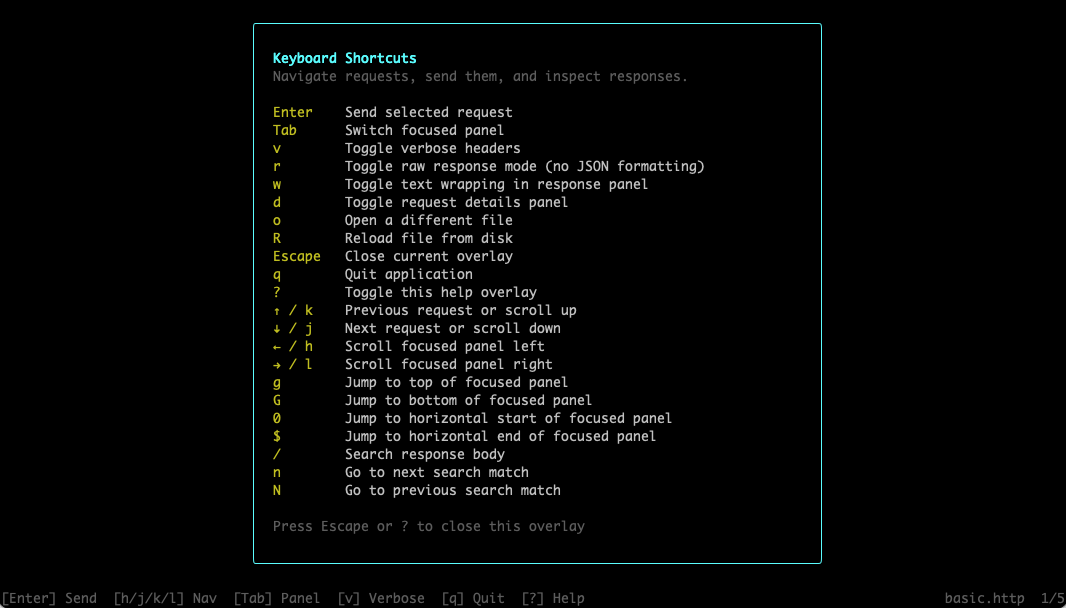
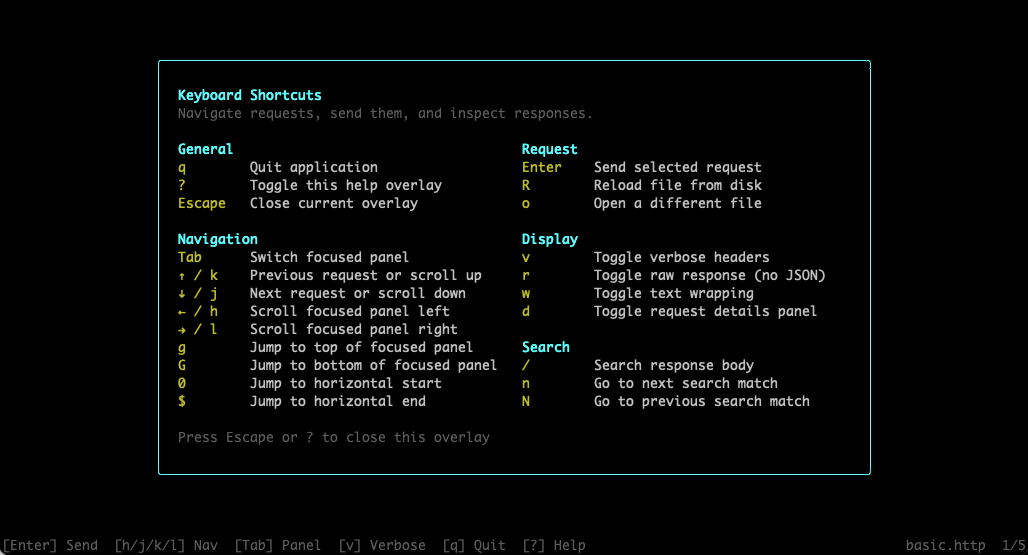
Complete change: help-panel-two-column-layout

diff --git a/src/components/HelpOverlay.tsx b/src/components/HelpOverlay.tsx
@@ -1,7 +1,7 @@
 import React from 'react';
 import { Box, Text, useStdout } from 'ink';
 
-import { SHORTCUTS, SHORTCUT_GROUP_ORDER, SHORTCUT_GROUP_LABELS } from '../core/shortcuts';
+import { SHORTCUTS, SHORTCUT_GROUP_LABELS, HELP_COLUMN_GROUPS } from '../core/shortcuts';
 import type { ShortcutGroup } from '../core/shortcuts';
 import { DEFAULT_TERMINAL_COLUMNS } from '../utils/layout';
 
@@ -30,7 +30,7 @@ export function HelpOverlay({ visible }: HelpOverlayProps): React.ReactElement |
     return null;
   }
 
-  const width = Math.min(72, Math.max(48, (stdout.columns || DEFAULT_TERMINAL_COLUMNS) - 6));
+  const width = Math.min(90, Math.max(64, (stdout.columns || DEFAULT_TERMINAL_COLUMNS) - 6));
   const grouped = groupShortcutsByGroup();
 
   return (
@@ -48,24 +48,30 @@ export function HelpOverlay({ visible }: HelpOverlayProps): React.ReactElement |
         </Text>
         <Text color="gray">Navigate requests, send them, and inspect responses.</Text>
         <Text>{' '}</Text>
-        {SHORTCUT_GROUP_ORDER.map((groupKey) => {
-          const shortcuts = grouped.get(groupKey);
-          if (!shortcuts?.length) return null;
-          return (
-            <React.Fragment key={groupKey}>
-              <Text color="cyanBright" bold>
-                {SHORTCUT_GROUP_LABELS[groupKey]}
-              </Text>
-              {shortcuts.map((shortcut) => (
-                <Text key={shortcut.key}>
-                  <Text color="yellow">{shortcut.key.padEnd(8, ' ')}</Text>
-                  <Text color="white"> {shortcut.description}</Text>
-                </Text>
-              ))}
-              <Text>{' '}</Text>
-            </React.Fragment>
-          );
-        })}
+        <Box flexDirection="row">
+          {HELP_COLUMN_GROUPS.map((columnGroups, colIndex) => (
+            <Box key={colIndex} flexDirection="column" width="50%" marginRight={colIndex === 0 ? 2 : 0}>
+              {columnGroups.map((groupKey) => {
+                const shortcuts = grouped.get(groupKey);
+                if (!shortcuts?.length) return null;
+                return (
+                  <React.Fragment key={groupKey}>
+                    <Text color="cyanBright" bold>
+                      {SHORTCUT_GROUP_LABELS[groupKey]}
+                    </Text>
+                    {shortcuts.map((shortcut) => (
+                      <Text key={shortcut.key}>
+                        <Text color="yellow">{shortcut.key.padEnd(8, ' ')}</Text>
+                        <Text color="white"> {shortcut.description}</Text>
+                      </Text>
+                    ))}
+                    <Text>{' '}</Text>
+                  </React.Fragment>
+                );
+              })}
+            </Box>
+          ))}
+        </Box>
         <Text color="gray">Press Escape or ? to close this overlay</Text>
       </Box>
     </Box>

diff --git a/src/core/shortcuts.ts b/src/core/shortcuts.ts
@@ -16,6 +16,11 @@ export const SHORTCUT_GROUP_LABELS: Record<ShortcutGroup, string> = {
   general: 'General',
 };
 
+export const HELP_COLUMN_GROUPS: readonly ShortcutGroup[][] = [
+  ['general', 'navigation'],
+  ['request', 'display', 'search'],
+];
+
 export interface Shortcut {
   key: string;
   label: string;
@@ -39,10 +44,10 @@ export const SHORTCUTS: readonly Shortcut[] = [
   { key: '→ / l', label: '', description: 'Scroll focused panel right', showInBar: false, showInHelp: true, group: 'navigation' },
   { key: 'g', label: '', description: 'Jump to top of focused panel', showInBar: false, showInHelp: true, group: 'navigation' },
   { key: 'G', label: '', description: 'Jump to bottom of focused panel', showInBar: false, showInHelp: true, group: 'navigation' },
-  { key: '0', label: '', description: 'Jump to horizontal start of focused panel', showInBar: false, showInHelp: true, group: 'navigation' },
-  { key: '$', label: '', description: 'Jump to horizontal end of focused panel', showInBar: false, showInHelp: true, group: 'navigation' },
-  { key: 'r', label: 'Raw', description: 'Toggle raw response mode (no JSON formatting)', showInBar: false, showInHelp: true, group: 'display' },
-  { key: 'w', label: 'Wrap', description: 'Toggle text wrapping in response panel', showInBar: false, showInHelp: true, group: 'display' },
+  { key: '0', label: '', description: 'Jump to horizontal start', showInBar: false, showInHelp: true, group: 'navigation' },
+  { key: '$', label: '', description: 'Jump to horizontal end', showInBar: false, showInHelp: true, group: 'navigation' },
+  { key: 'r', label: 'Raw', description: 'Toggle raw response (no JSON)', showInBar: false, showInHelp: true, group: 'display' },
+  { key: 'w', label: 'Wrap', description: 'Toggle text wrapping', showInBar: false, showInHelp: true, group: 'display' },
   { key: 'd', label: 'Details', description: 'Toggle request details panel', showInBar: false, showInHelp: true, group: 'display' },
   { key: 'R', label: '', description: 'Reload file from disk', showInBar: false, showInHelp: true, group: 'request' },
   { key: '/', label: '', description: 'Search response body', showInBar: false, showInHelp: true, group: 'search' },

diff --git a/test/integration/edge-jump.test.tsx b/test/integration/edge-jump.test.tsx
@@ -72,8 +72,8 @@ describe('edge-jump integration — help overlay', () => {
 
     expect(frame).toContain('Jump to top of focused panel');
     expect(frame).toContain('Jump to bottom of focused panel');
-    expect(frame).toContain('Jump to horizontal start of focused panel');
-    expect(frame).toContain('Jump to horizontal end of focused panel');
+    expect(frame).toContain('Jump to horizontal start');
+    expect(frame).toContain('Jump to horizontal end');
   });
 });
 

diff --git a/test/shortcuts.test.ts b/test/shortcuts.test.ts
@@ -22,7 +22,7 @@ describe('SHORTCUTS registry — edge-jump entries', () => {
   it('contains the `0` entry (jump to horizontal start)', () => {
     const entry = SHORTCUTS.find((s) => s.key === '0');
     expect(entry).toBeDefined();
-    expect(entry?.description).toBe('Jump to horizontal start of focused panel');
+    expect(entry?.description).toBe('Jump to horizontal start');
     expect(entry?.showInBar).toBe(false);
     expect(entry?.showInHelp).toBe(true);
   });
@@ -30,7 +30,7 @@ describe('SHORTCUTS registry — edge-jump entries', () => {
   it('contains the `$` entry (jump to horizontal end)', () => {
     const entry = SHORTCUTS.find((s) => s.key === '$');
     expect(entry).toBeDefined();
-    expect(entry?.description).toBe('Jump to horizontal end of focused panel');
+    expect(entry?.description).toBe('Jump to horizontal end');
     expect(entry?.showInBar).toBe(false);
     expect(entry?.showInHelp).toBe(true);
   });

diff --git a/openspec/changes/help-panel-two-column-layout/tasks.md b/openspec/changes/help-panel-two-column-layout/tasks.md
@@ -1,18 +1,18 @@
 ## 1. Data Layer
 
-- [ ] 1.1 Add `HELP_COLUMN_GROUPS` constant to `src/core/shortcuts.ts` — a `readonly ShortcutGroup[][]` with `[['general', 'navigation'], ['request', 'display', 'search']]`
-- [ ] 1.2 Export `HELP_COLUMN_GROUPS` from the module
+- [x] 1.1 Add `HELP_COLUMN_GROUPS` constant to `src/core/shortcuts.ts` — a `readonly ShortcutGroup[][]` with `[['general', 'navigation'], ['request', 'display', 'search']]`
+- [x] 1.2 Export `HELP_COLUMN_GROUPS` from the module
 
 ## 2. HelpOverlay Layout
 
-- [ ] 2.1 Update width calculation in `HelpOverlay.tsx` from `Math.min(72, Math.max(48, ...))` to `Math.min(90, Math.max(64, ...))`
-- [ ] 2.2 Replace the single-column group iteration with a two-column `Box flexDirection="row"` layout
-- [ ] 2.3 Render left column (`general`, `navigation`) and right column (`request`, `display`, `search`) using `HELP_COLUMN_GROUPS`
-- [ ] 2.4 Add spacing between columns (marginRight or gap on left column Box)
-- [ ] 2.5 Ensure each column uses `flexDirection="column"` and `width="50%"`
+- [x] 2.1 Update width calculation in `HelpOverlay.tsx` from `Math.min(72, Math.max(48, ...))` to `Math.min(90, Math.max(64, ...))`
+- [x] 2.2 Replace the single-column group iteration with a two-column `Box flexDirection="row"` layout
+- [x] 2.3 Render left column (`general`, `navigation`) and right column (`request`, `display`, `search`) using `HELP_COLUMN_GROUPS`
+- [x] 2.4 Add spacing between columns (marginRight or gap on left column Box)
+- [x] 2.5 Ensure each column uses `flexDirection="column"` and `width="50%"`
 
 ## 3. Tests
 
-- [ ] 3.1 Update integration tests that assert on help overlay frame content to expect two-column layout
-- [ ] 3.2 Add or update unit/reducer tests if any exist for help overlay visibility or dimensions
-- [ ] 3.3 Run full test suite (`npm test`) and fix any failures
+- [x] 3.1 Update integration tests that assert on help overlay frame content to expect two-column layout
+- [x] 3.2 Add or update unit/reducer tests if any exist for help overlay visibility or dimensions
+- [x] 3.3 Run full test suite (`npm test`) and fix any failures